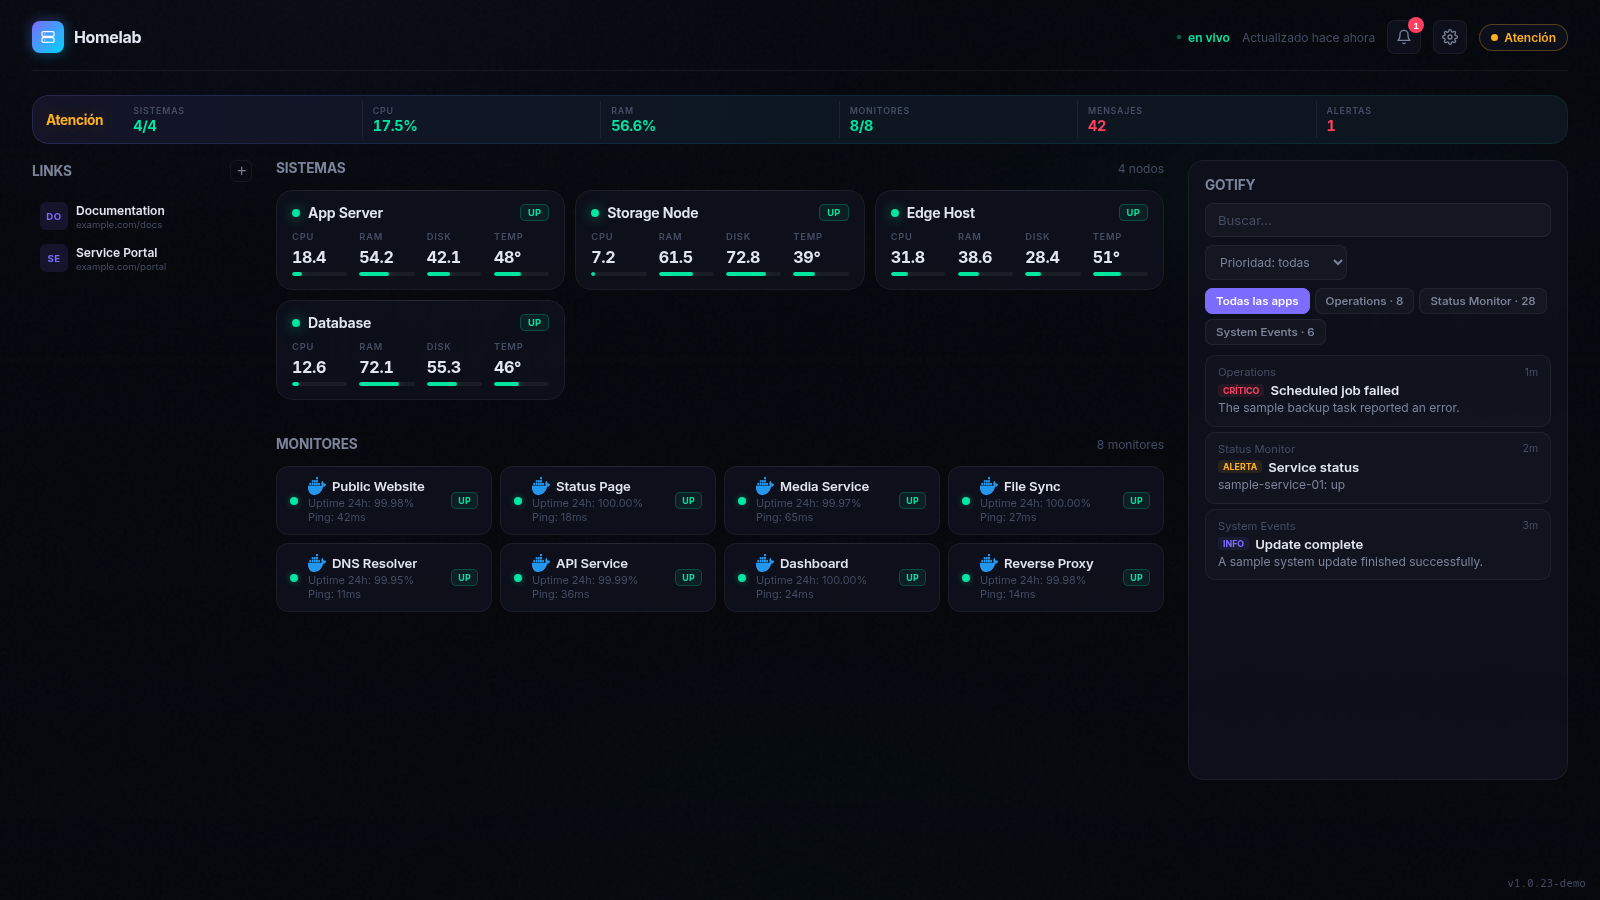
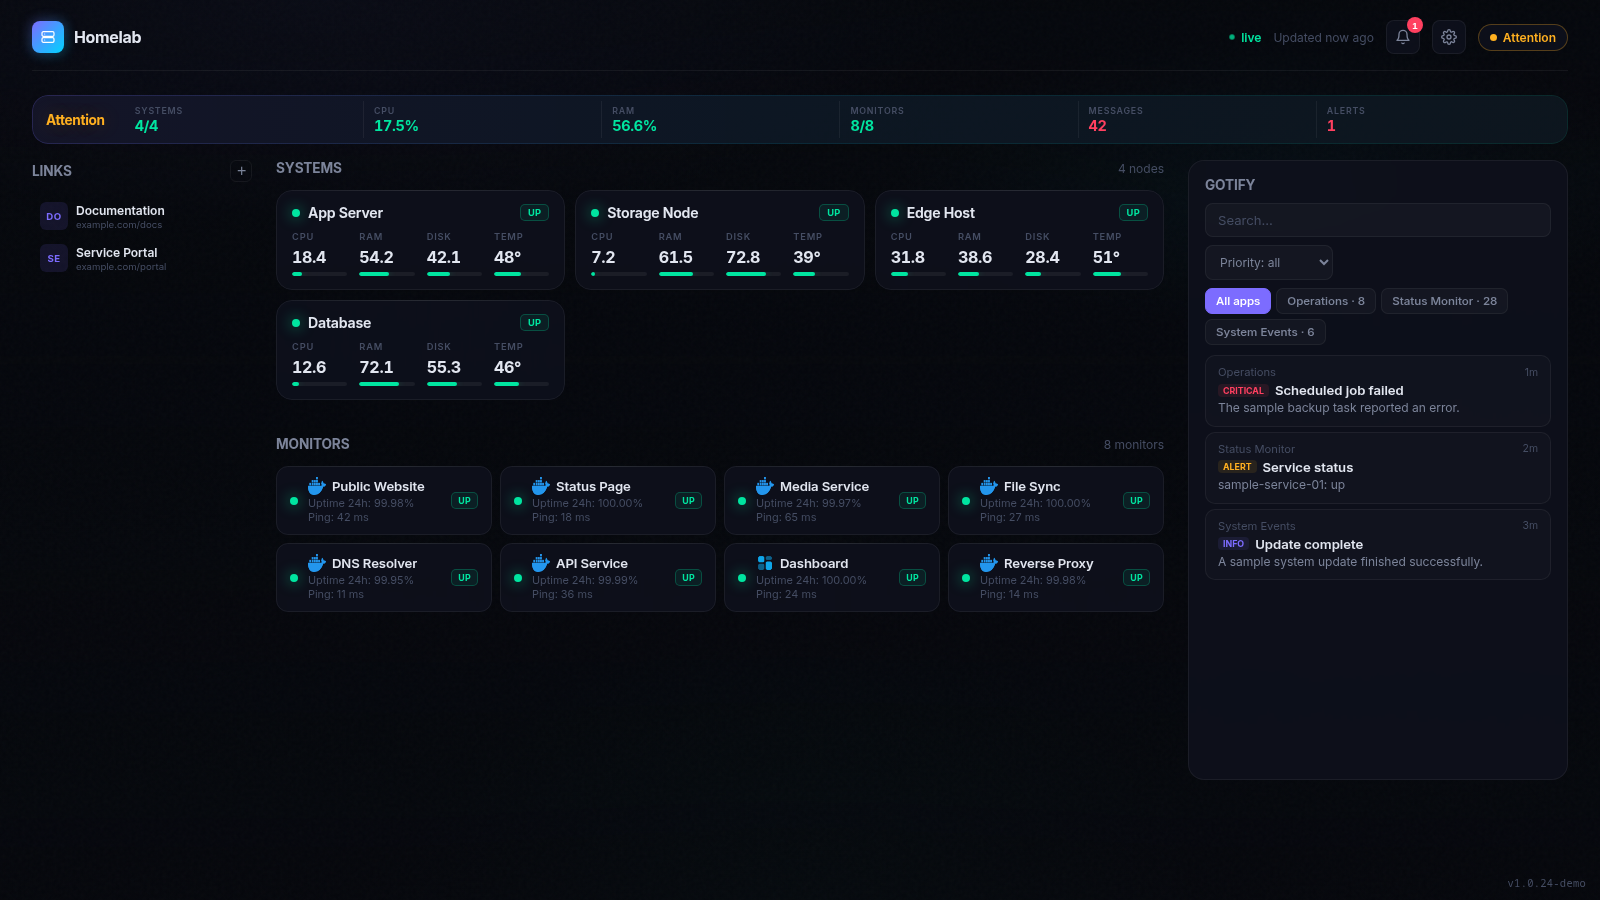
docs: English demo screenshot and expanded feature list

diff --git a/README.md b/README.md
@@ -12,12 +12,15 @@ Homelab Nexus combines **Beszel**, **Uptime Kuma**, and **Gotify** in a lightwei
 
 ## Features
 
-- Host metrics from Beszel and status/latency from Uptime Kuma.
-- Gotify messages and infrastructure alerts.
-- English and Spanish interface: detected from the browser language, with a selector in Settings. The choice is stored per browser.
-- Live updates over Server-Sent Events (SSE).
-- Persistent bookmarks, monitor links, alert states, and optional background settings.
-- Docker image runs as a non-root user and includes a health check.
+- **Everything in one view:** host metrics from Beszel, monitor status and latency from Uptime Kuma, and Gotify messages with infrastructure alerts.
+- **Live updates** over Server-Sent Events (SSE).
+- **Custom background:** use any image you like (URL or upload), set the blur level, and save as many backgrounds as you want to switch between them quickly.
+- **Resizable Gotify widget:** drag its edges to make it wider, narrower or taller to suit your layout. The size is remembered in your browser.
+- **Links / bookmarks:** a dedicated section where you can add any links you want, with custom labels and icons.
+- **Alerts you can manage:** mark them as read or resolved, and review resolved ones later.
+- **English and Spanish interface:** detected from the browser language, with a selector in Settings. The choice is stored per browser.
+- **Persistent data:** bookmarks, monitor links, alert states and background settings are kept in the data directory.
+- **Docker-ready:** the image runs as a non-root user and includes a health check; multi-arch (`amd64` and `arm64`).
 
 ## Quick start with Docker Compose
 
